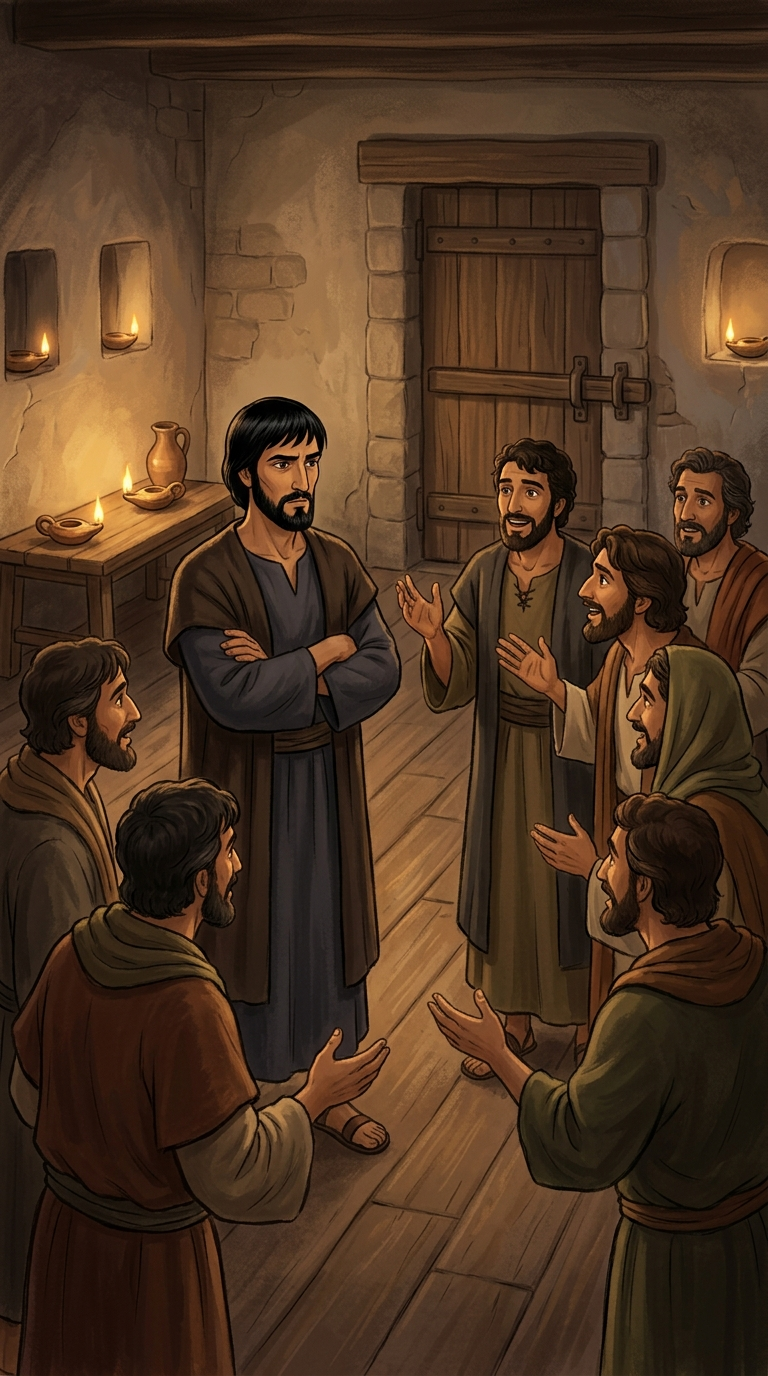
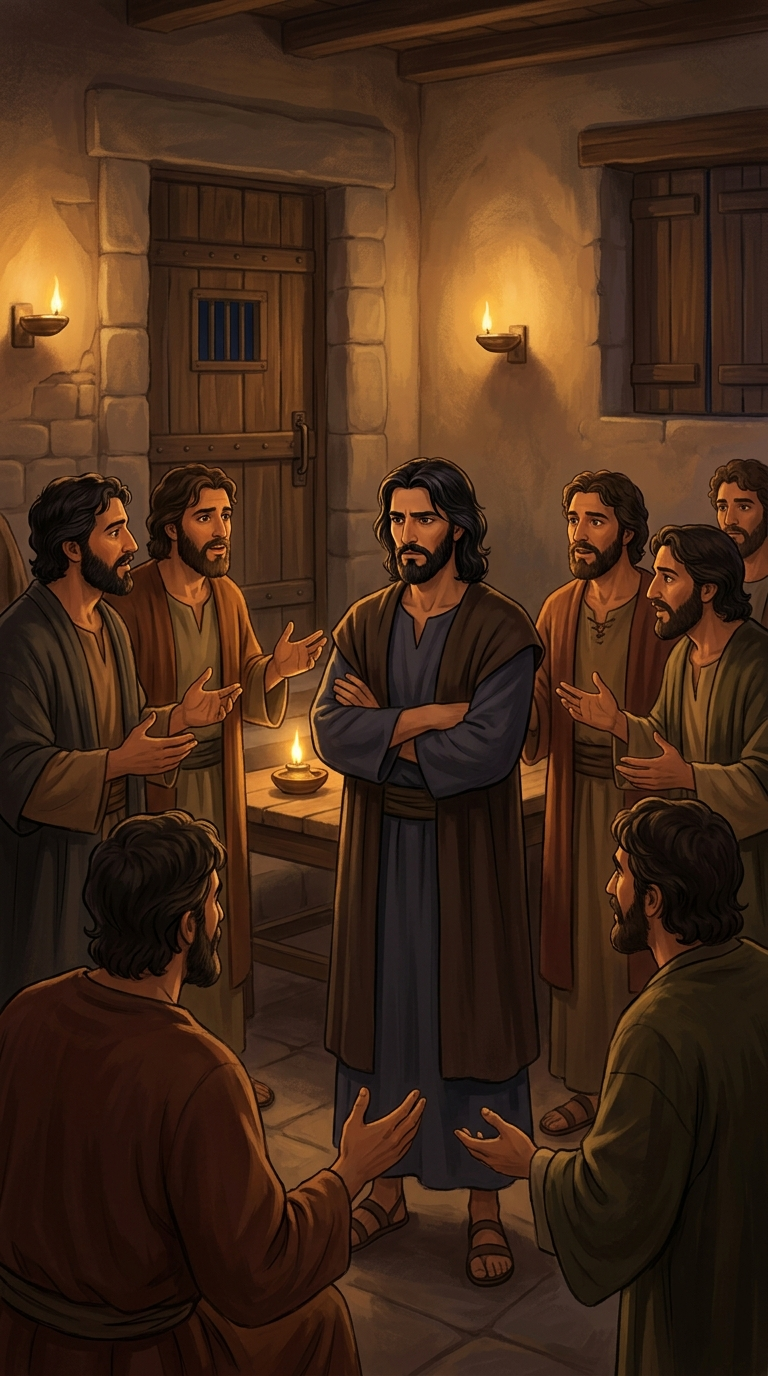
COMPLAINT #99: Thomas character off -> aligned to canonical cast Thomas (wavy dark hair not black bowl-cut, full beard, brown eyes); regen s5/s6/s7 with cast ref + fixed LOCK prose (Machine C)

diff --git a/media-production/build-99-flesh-and-bone-thomas/PROMPTS.md b/media-production/build-99-flesh-and-bone-thomas/PROMPTS.md
@@ -36,12 +36,13 @@ charcoal, olive — never pale, never cream; no disciple resembles the man in
 cream; every visible figure has two arms, two hands, two legs, one head, every
 limb joined to the correct body.
 
-[THOMAS LOCK] = Thomas, the same man in every picture he appears in: a lean
-Middle Eastern Jewish man of about thirty-five, angular thoughtful face, a FULL
-hairline of straight black hair cropped to the jaw, a short trimmed black beard,
-sharp questioning dark eyes, dressed in a deep indigo-charcoal wool tunic with a
-dark brown mantle (never cream). He appears EXACTLY ONCE in any frame; no other
-figure in the frame resembles him.
+[THOMAS LOCK] = Thomas, the same man in every picture he appears in and
+IDENTICAL to the attached Thomas reference portrait: a lean Middle Eastern
+Jewish man of about thirty-five, angular thoughtful face, medium-length WAVY
+dark brown-black hair falling to the jaw and neck (never a flat straight
+bowl-cut), a FULL dark beard, warm thoughtful dark-brown eyes, dressed in a deep
+indigo-charcoal wool tunic with a dark brown mantle (never cream). He appears
+EXACTLY ONCE in any frame; no other figure in the frame resembles him.
 
 ---
 
